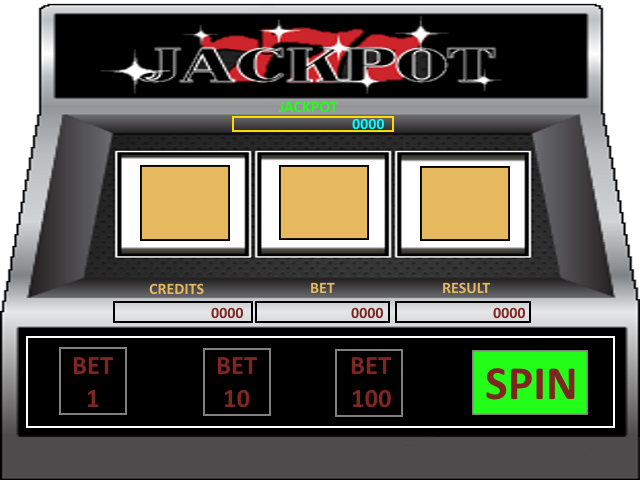
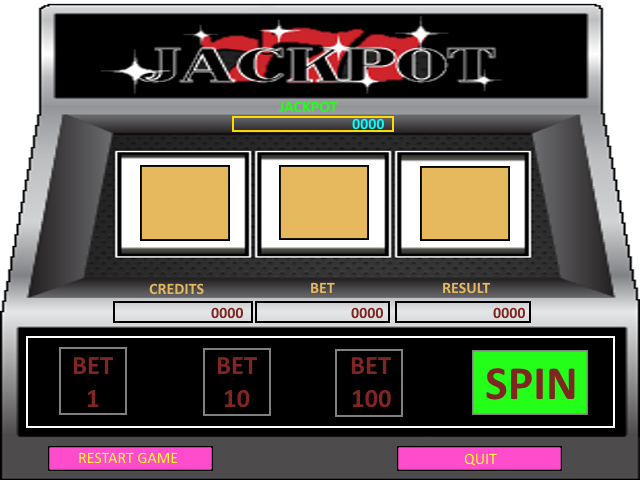
Added quit and restart buttons and their respective event handlers

Changed region(s): [[0.0625, 0.9062, 0.3438, 1.0], [0.5938, 0.9062, 0.875, 1.0]]

diff --git a/Scripts/scenes/slotmachine.ts b/Scripts/scenes/slotmachine.ts
@@ -7,6 +7,8 @@ module scenes {
         private _bet10Button: objects.Button;
         private _bet100Button: objects.Button;
         private _spinButton: objects.Button;
+        private _restartButton: objects.Button;
+        private _quitButton: objects.Button;
         private _reels: createjs.Bitmap[];
         private _jackpotText: objects.Label;
         private _creditsText: objects.Label;
@@ -59,7 +61,16 @@ module scenes {
             // add SpinButton to the scene
             this._spinButton = new objects.Button("SpinButton", 450, 347, false);
             this.addChild(this._spinButton);
-            this._spinButton.on("click", this._spinButtonClick, this); 
+            this._spinButton.on("click", this._spinButtonClick, this);
+            
+            // add RestartButton to the scene
+            this._restartButton = new objects.Button("RestartButton", 100, 445, false);
+            this.addChild(this._restartButton);
+            this._restartButton.on("click", this._restartButtonClick, this); 
+            
+            this._quitButton = new objects.Button("QuitButton", 400, 445, false);
+            this.addChild(this._quitButton);
+            this._quitButton.on("click", this._quitButtonClick, this);
         
             // add JackPot Text to the scene
             this._jackpotText = new objects.Label(
@@ -303,6 +314,23 @@ module scenes {
                 this.playerBet = 0;
                 this._betText.text = this.playerBet.toString();
                 this.winnings = 0;
+            }
+        }
+        
+        // reset game for player on click
+        private _restartButtonClick(event: createjs.MouseEvent): void {
+            this.playerMoney = 1000;
+            this._creditsText.text = this.playerMoney.toString();
+            this.playerBet = 0;
+            this._betText.text = this.playerBet.toString();
+            this.winnings = 0;
+            this._resultText.text = this.winnings.toString();
+        }
+        
+        // quits game for player on click
+        private _quitButtonClick(event: createjs.MouseEvent): void {
+            if (confirm("Quit Game?")) {
+                location.reload();  
             }
         }
     }

diff --git a/Scripts/scenes/slotmachine.js b/Scripts/scenes/slotmachine.js
@@ -44,6 +44,13 @@ var scenes;
             this._spinButton = new objects.Button("SpinButton", 450, 347, false);
             this.addChild(this._spinButton);
             this._spinButton.on("click", this._spinButtonClick, this);
+            // add RestartButton to the scene
+            this._restartButton = new objects.Button("RestartButton", 100, 445, false);
+            this.addChild(this._restartButton);
+            this._restartButton.on("click", this._restartButtonClick, this);
+            this._quitButton = new objects.Button("QuitButton", 400, 445, false);
+            this.addChild(this._quitButton);
+            this._quitButton.on("click", this._quitButtonClick, this);
             // add JackPot Text to the scene
             this._jackpotText = new objects.Label(this.jackpot.toString(), "14px Consolas", "#ff0000", 370, 115, false);
             this._jackpotText.textAlign = "right";
@@ -242,6 +249,21 @@ var scenes;
                 this.playerBet = 0;
                 this._betText.text = this.playerBet.toString();
                 this.winnings = 0;
+            }
+        };
+        // reset game for player on click
+        SlotMachine.prototype._restartButtonClick = function (event) {
+            this.playerMoney = 1000;
+            this._creditsText.text = this.playerMoney.toString();
+            this.playerBet = 0;
+            this._betText.text = this.playerBet.toString();
+            this.winnings = 0;
+            this._resultText.text = this.winnings.toString();
+        };
+        // quits game for player on click
+        SlotMachine.prototype._quitButtonClick = function (event) {
+            if (confirm("Quit Game?")) {
+                location.reload();
             }
         };
         return SlotMachine;

diff --git a/Scripts/core/game.js b/Scripts/core/game.js
@@ -20,6 +20,8 @@ var assetData = [
     { id: "Bet10Button", src: "../../Assets/images/Bet10Button.png" },
     { id: "Bet100Button", src: "../../Assets/images/Bet100Button.png" },
     { id: "SpinButton", src: "../../Assets/images/spinButton.png" },
+    { id: "QuitButton", src: "../../Assets/images/quitButton.png" },
+    { id: "RestartButton", src: "../../Assets/images/restartButton.png" },
     { id: "BlackBackground", src: "../../Assets/images/BlackBackground.png" },
     { id: "WhiteBackground", src: "../../Assets/images/WhiteBackground.png" },
     { id: "Lemon", src: "../../Assets/images/Lemon.png" },

diff --git a/Scripts/core/game.ts b/Scripts/core/game.ts
@@ -24,6 +24,8 @@ var assetData:objects.Asset[] = [
     {id: "Bet10Button", src:"../../Assets/images/Bet10Button.png"},
     {id: "Bet100Button", src:"../../Assets/images/Bet100Button.png"},
     {id: "SpinButton", src:"../../Assets/images/spinButton.png"},
+    {id: "QuitButton", src:"../../Assets/images/quitButton.png"},
+    {id: "RestartButton", src:"../../Assets/images/restartButton.png"},
     {id: "BlackBackground", src:"../../Assets/images/BlackBackground.png"},
     {id: "WhiteBackground", src:"../../Assets/images/WhiteBackground.png"},
     {id: "Lemon", src:"../../Assets/images/Lemon.png"},
